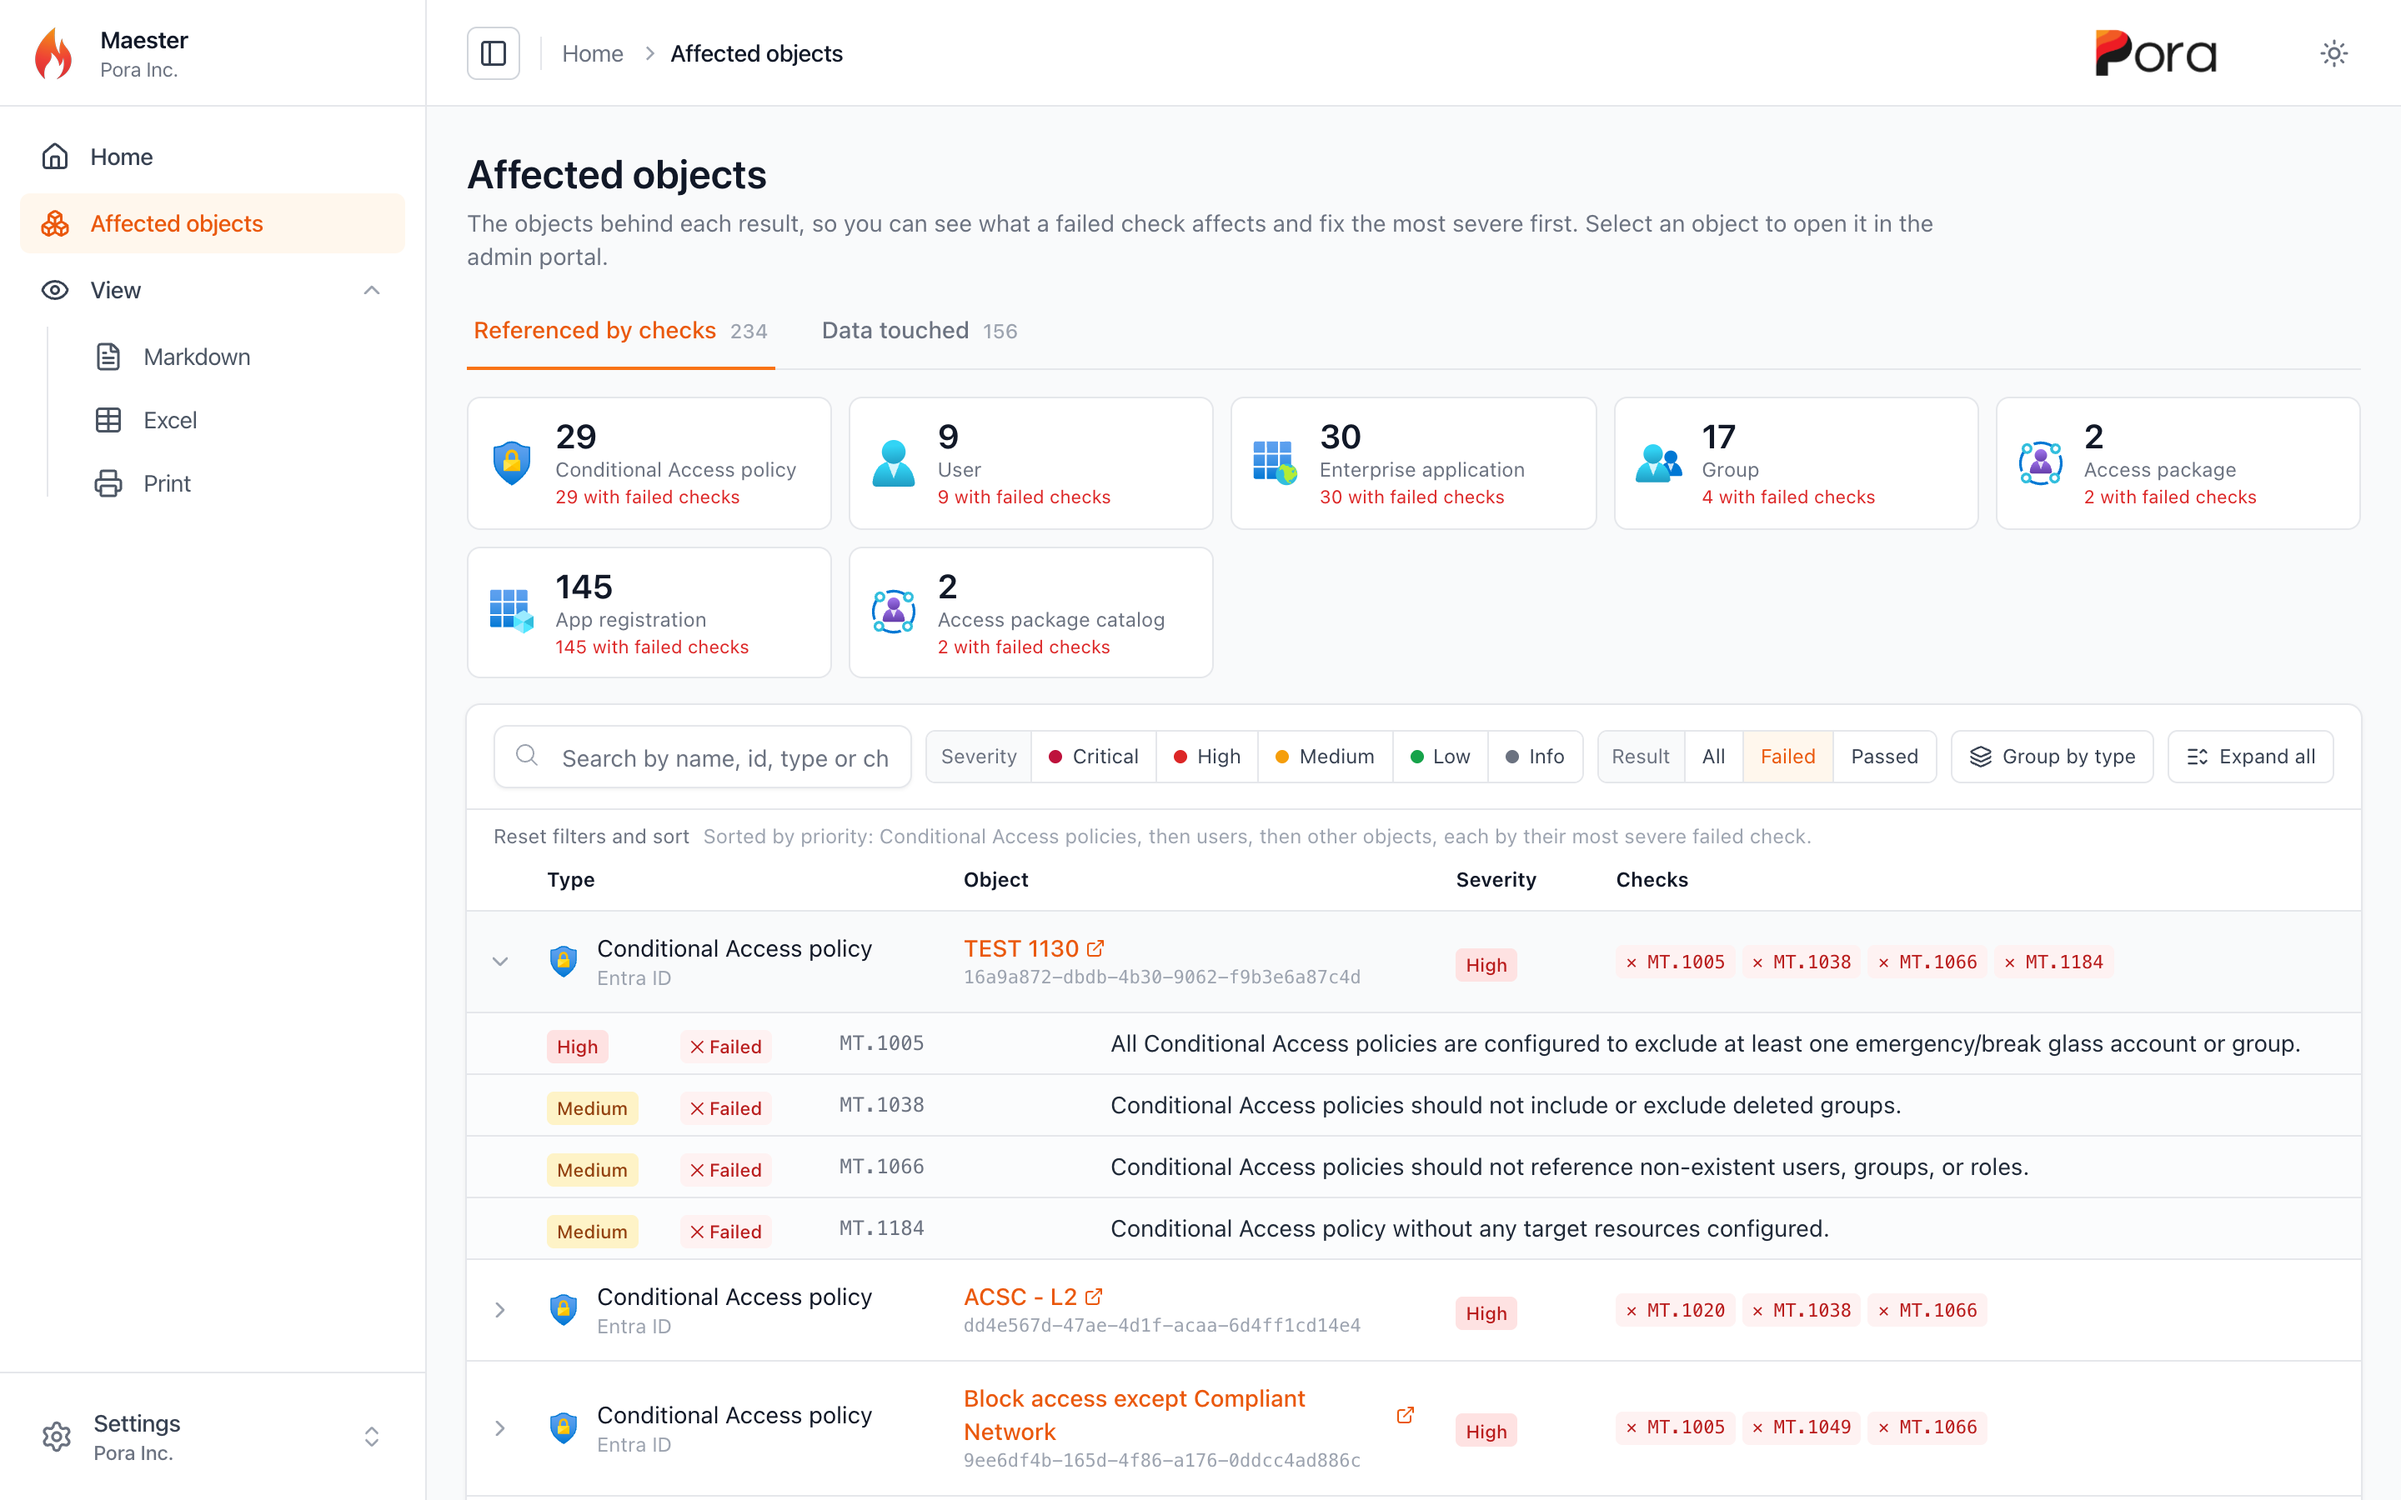
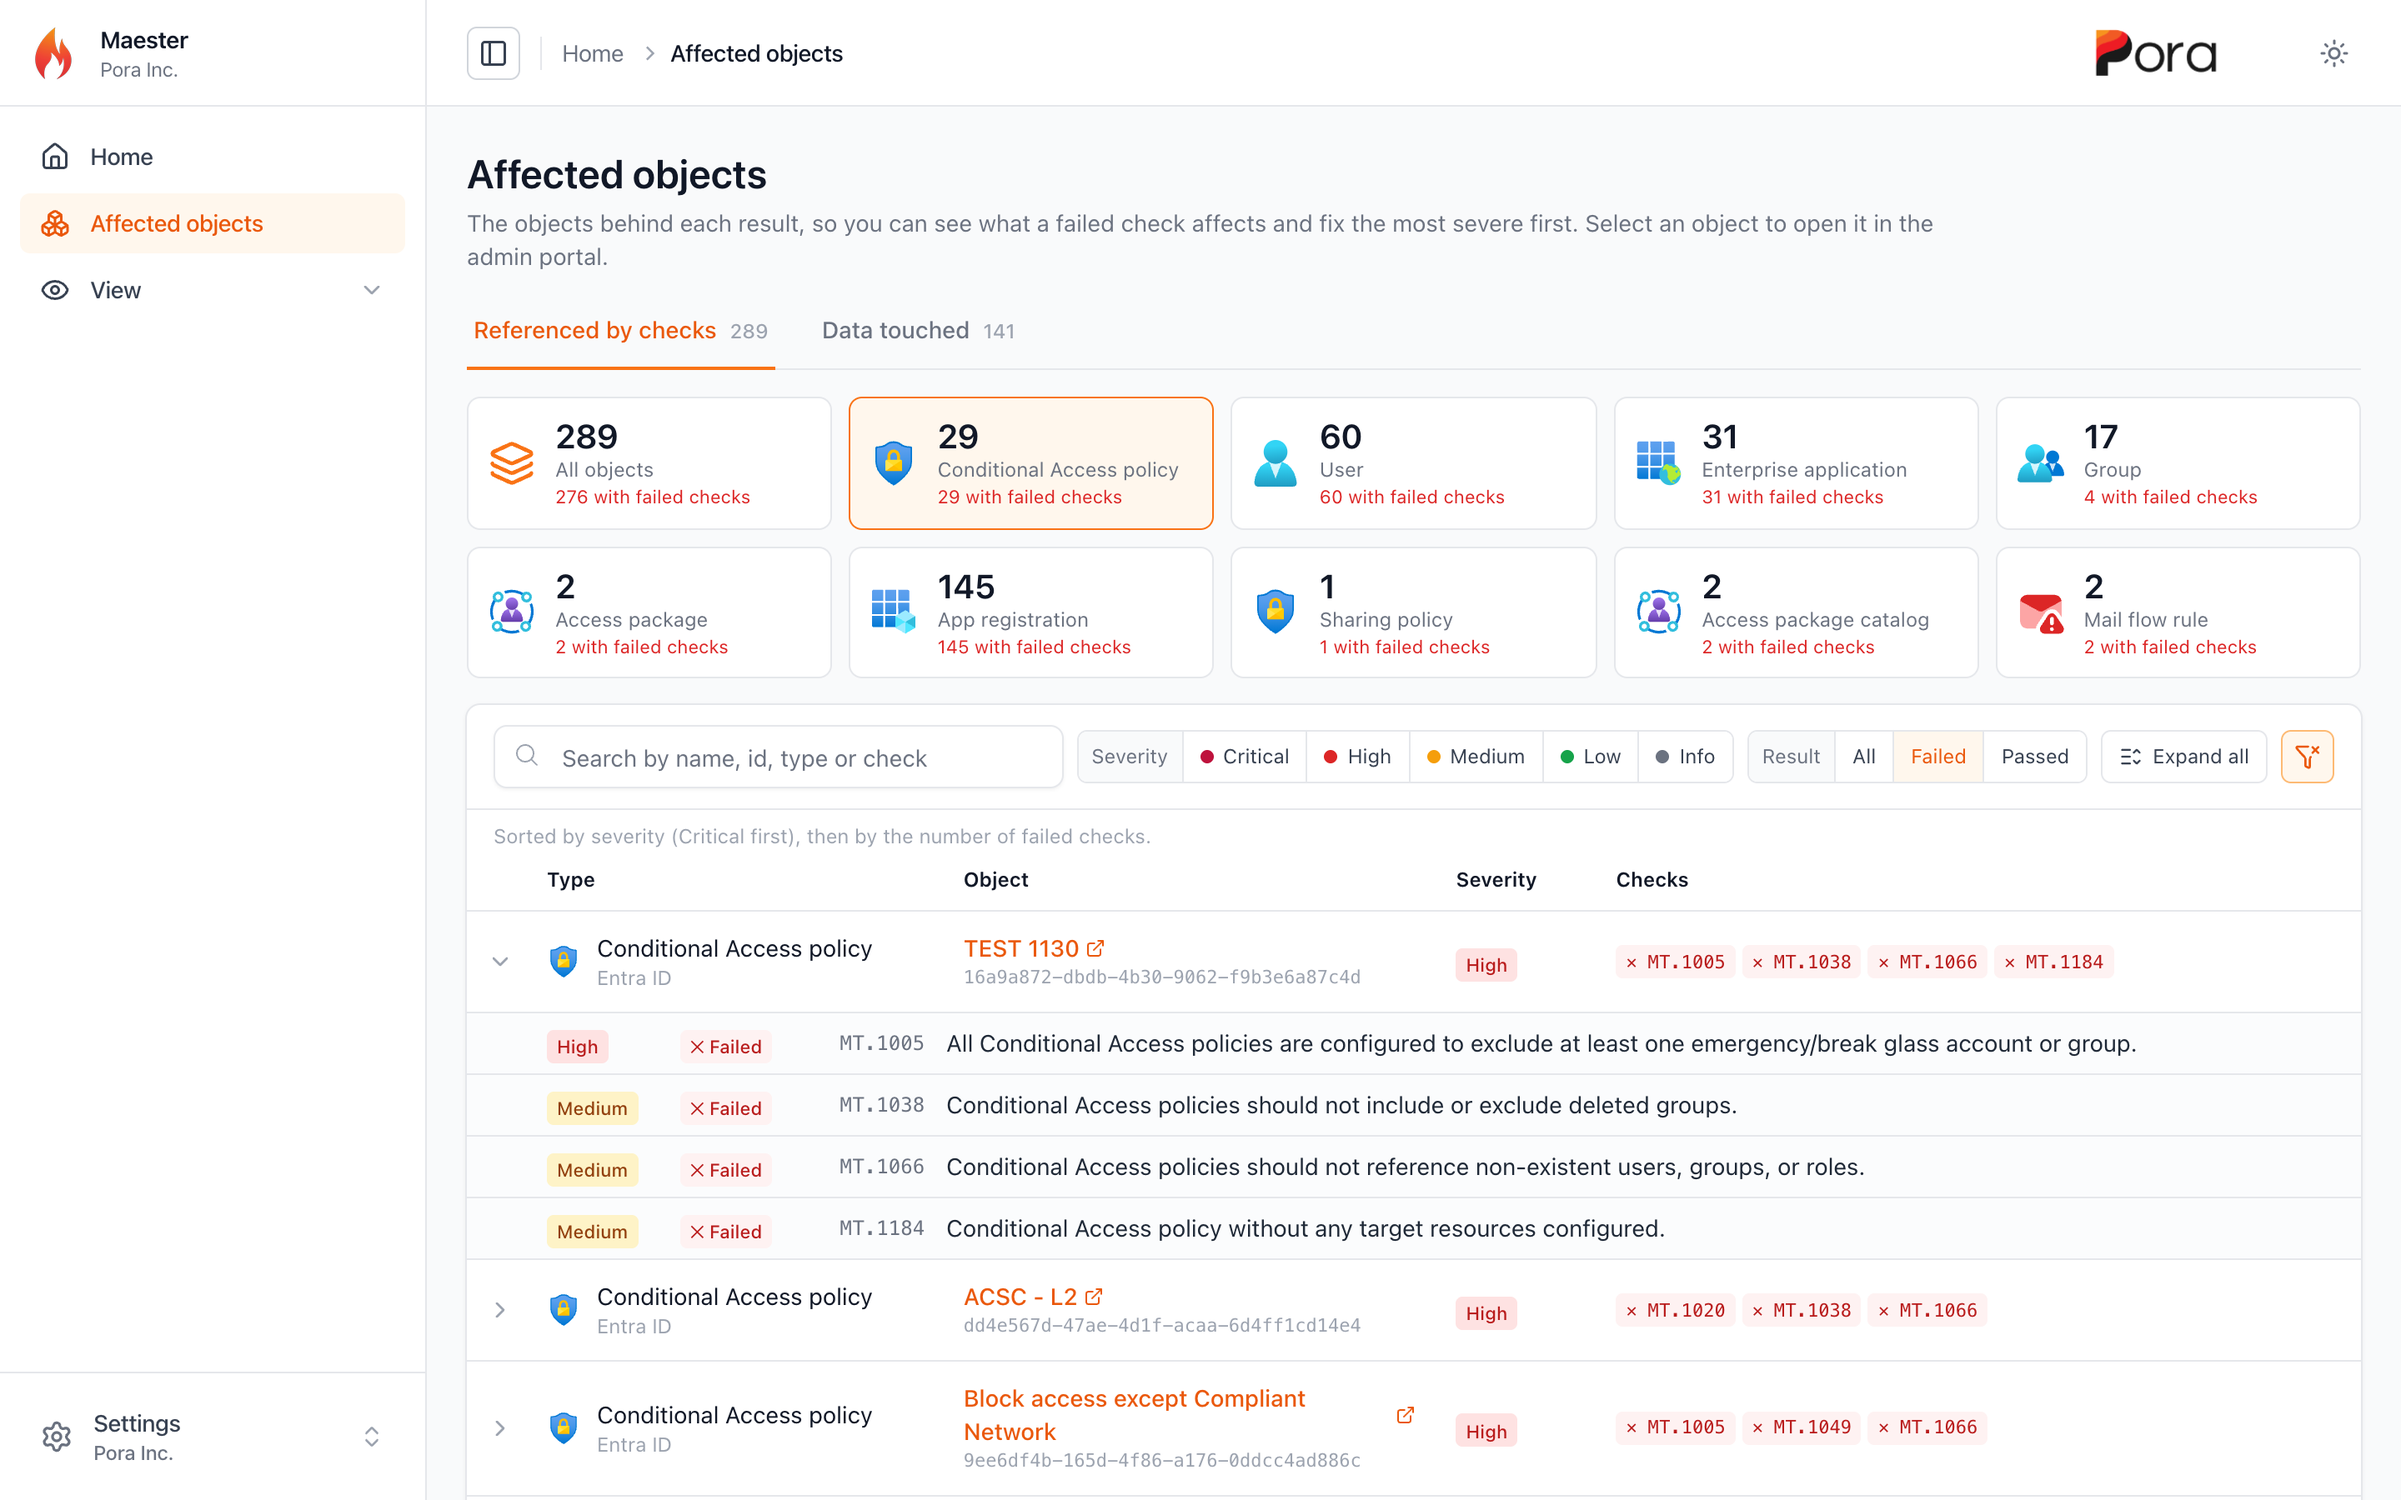
docs(blog): update Affected objects section for tab-style tiles and severity sort

diff --git a/website/blog/2026-10-01-maester-2-3/index.md b/website/blog/2026-10-01-maester-2-3/index.md
@@ -139,17 +139,17 @@ The new **Affected objects** report turns that around. Run Maester with `-Includ
 Invoke-Maester -IncludeAffectedObjects
 ```
 
-![The Affected objects page, filtered to failed checks, with one Conditional Access policy expanded to show its four failed checks](./img/affected-objects.png)
+![The Affected objects page showing only Conditional Access policies, filtered to failed checks, with one policy expanded to show its four failed checks](./img/affected-objects.png)
 
-- **One tile per object type**, showing how many objects have failed checks. Click tiles to filter the table
-- **Sorted for remediation**: Conditional Access policies first, then users, then everything else, each ordered by its most severe failed check
-- **Filters for severity and result**. Select *Failed*, and each row shows only its failed checks
+- **One tile per object type**, showing how many objects have failed checks. The tiles work like tabs: *All objects* shows everything, and selecting a type, such as *User*, shows only that type
+- **Sorted for remediation**: by severity, Critical first, then by the number of failed checks, so the objects to fix first are at the top
+- **Filters for severity and result**. Select *Failed*, and each row shows only its failed checks. One click on the clear filter button resets everything
 - **Expand a row** to see each check that referenced the object, and select a check to open its result without leaving the page
 - **Select the object's name** to open it in the admin portal
 
 ![A failed check opened in the side panel from the Affected objects page](./img/affected-objects-check.png)
 
-A second tab, **Data touched**, lists everything the run read, grouped by area: Intune, Entra roles, PIM alerts, and so on. It's a quick way to see the scope of what Maester looked at.
+A second tab, **Data touched**, lists everything the run read, with a tile for each area: Intune, Entra roles, PIM alerts, and so on. It's a quick way to see the scope of what Maester looked at.
 
 The same list is also saved next to your results as `<name>-affected-objects.json`, and as a CSV when you use `-ExportCsv`, so you can feed it into your own tooling. Nothing is collected unless you pass the switch.
 
